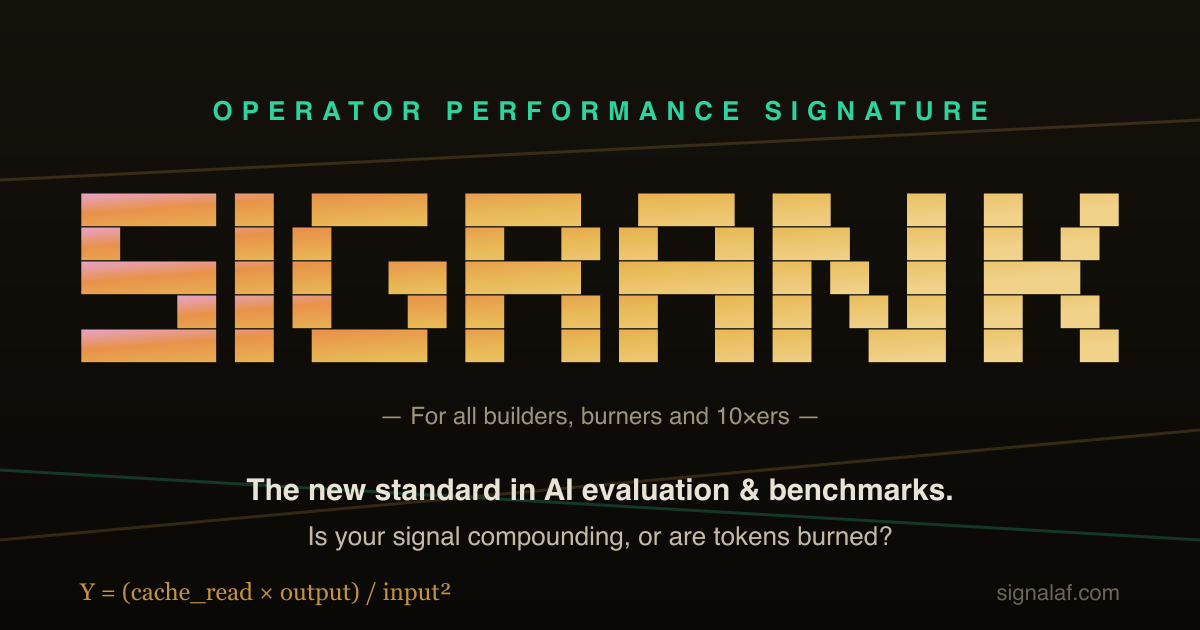
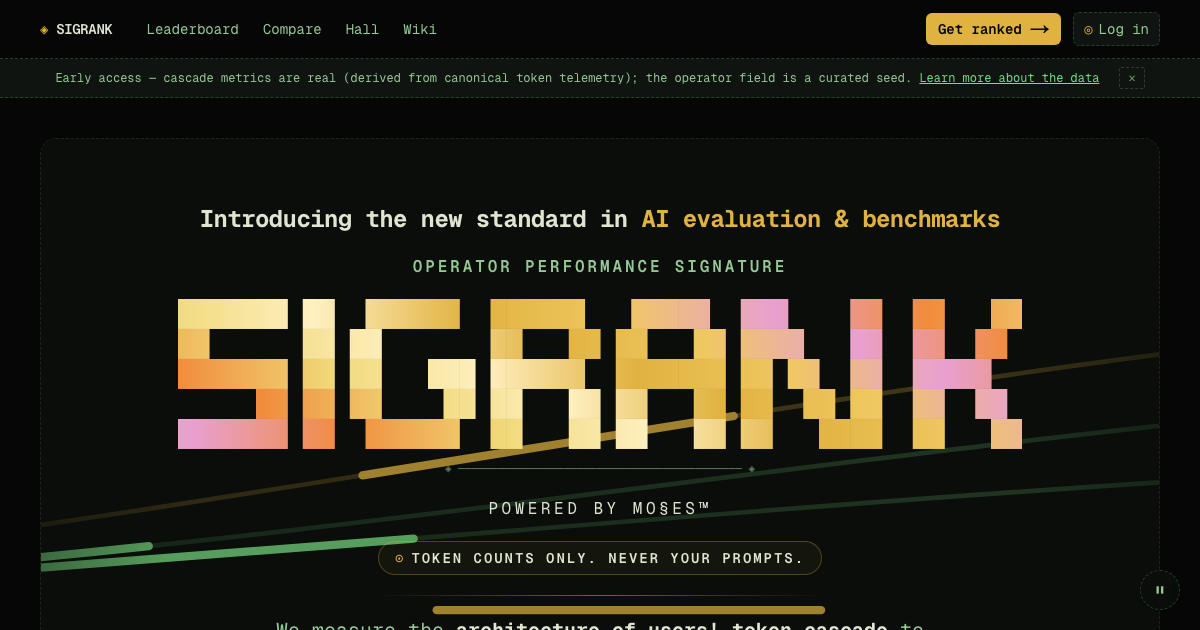
fix: refresh stale terminal mockup + screenshots to match live board
The landing page TUI mockup and GitHub README screenshots were from
late June — the board data has changed significantly since then.

TuiBoardMockup (landing page terminal demo):
- Updated all 6 rows to match live 30d board (2026-07-06):
  #1 signal-92b4f9f485 (BASE, Υ 566.34) — was TransVaultOrigin (Υ 18,436.98)
  #2 OrcaVanguard (TRANSMITTER, Υ 2.59) — was Υ 12,104.41
  #3 IronLattice (TRANSMITTER, Υ 2.30) — was ARCHITECT, Υ 8,902.17
  #4 EmberCoil (POWER, Υ 1.82) — was MeridianScribe (ARCHITECT)
  #5 DriftPilgrim (BASE, Υ 1.77) — was VectorHerald (POWER)
  #6 MeridianScribe (ARCH+, Υ 1.51) — was DriftPilgrim (POWER)
- Title bar: "sigrank-mcp — Board" → "⊙ SigRank — Board" (matches actual TUI)
- Caption: removed stale 33× discrepancy explanation, now points to live board
- Removed canonical anchor comment (no longer needed — mockup matches live)

Screenshots (.github/assets/):
- board.png: fresh capture of signalaf.com/board/30d
- profile.png: fresh capture of signalaf.com/user/signal-92b4f9f485
- og-card-v2.png: fresh capture of signalaf.com homepage

Generated with [Devin](https://devin.ai)

diff --git a/components/marketing/TuiBoardMockup.tsx b/components/marketing/TuiBoardMockup.tsx
@@ -4,17 +4,9 @@ import React from 'react'
  * TuiBoardMockup — a CSS replica of the sigrank-mcp TUI Board tab.
  *
  * Used on the landing HowItWorks section as the "screenshot" alongside the
- * install/submit commands. Static data (realistic — mirrors the live 30d
- * board). When `highlightYou` is true, the #1 row gets a gold bg-tint + YOU
- * marker (the "after you submit" view).
- *
- * The #1 Υ (18,436.98) is the CANONICAL ANCHOR — the owner's verified ccusage
- * ceiling (the most-favorable raw read). It is intentionally NOT the live
- * board's observer-stripped top (~552.53, shown in the Three Degrees gold
- * column): the mock illustrates the TUI at the canonical anchor, the chart
- * tracks the live observer-stripped field. The caption below the rows makes
- * that distinction visible so a visitor doesn't read the two surfaces as a 33×
- * discrepancy (review 2026-07-02).
+ * install/submit commands. Static data mirrors the live 30d board (refreshed
+ * 2026-07-06). When `highlightYou` is true, the #1 row gets a gold bg-tint +
+ * YOU marker (the "after you submit" view).
  */
 
 interface Row {
@@ -32,12 +24,12 @@ interface Row {
 }
 
 const ROWS: Row[] = [
-  { rank: 1, name: 'TransVaultOrigin', cls: 'TRANSMITTER', yld: '18,436.98', snr: '90.2', lev: '4.27×', vel: '1.63', d10: '0.63', pct: '100%', mv: '▲', you: true },
-  { rank: 2, name: 'OrcaVanguard',     cls: 'TRANSMITTER', yld: '12,104.41', snr: '84.1', lev: '3.82×', vel: '1.41', d10: '0.58', pct: '99%',  mv: '▲' },
-  { rank: 3, name: 'IronLattice',      cls: 'ARCHITECT',   yld:  '8,902.17', snr: '78.5', lev: '3.10×', vel: '1.29', d10: '0.49', pct: '98%',  mv: '—' },
-  { rank: 4, name: 'MeridianScribe',   cls: 'ARCHITECT',   yld:  '6,418.80', snr: '71.3', lev: '2.64×', vel: '1.12', d10: '0.42', pct: '95%',  mv: '▼' },
-  { rank: 5, name: 'VectorHerald',     cls: 'POWER',       yld:  '4,771.02', snr: '65.8', lev: '2.21×', vel: '0.98', d10: '0.34', pct: '91%',  mv: '▲' },
-  { rank: 6, name: 'DriftPilgrim',     cls: 'POWER',       yld:  '3,209.44', snr: '58.2', lev: '1.87×', vel: '0.84', d10: '0.27', pct: '85%',  mv: '—' },
+  { rank: 1, name: 'signal-92b4f9f485', cls: 'BASE',        yld: '566.34', snr: '0.59', lev: '385.7×', vel: '1.47', d10: '2.59', pct: '100%', mv: '—', you: true },
+  { rank: 2, name: 'OrcaVanguard',      cls: 'TRANSMITTER', yld: '2.59',   snr: '0.08', lev: '27.9×',  vel: '0.09', d10: '1.45', pct: '99%',  mv: '—' },
+  { rank: 3, name: 'IronLattice',       cls: 'TRANSMITTER', yld: '2.30',   snr: '0.07', lev: '30.1×',  vel: '0.08', d10: '1.48', pct: '98%',  mv: '—' },
+  { rank: 4, name: 'EmberCoil',         cls: 'POWER',       yld: '1.82',   snr: '0.08', lev: '22.3×',  vel: '0.08', d10: '1.35', pct: '91%',  mv: '—' },
+  { rank: 5, name: 'DriftPilgrim',      cls: 'BASE',        yld: '1.77',   snr: '0.05', lev: '31.5×',  vel: '0.06', d10: '1.50', pct: '85%',  mv: '—' },
+  { rank: 6, name: 'MeridianScribe',    cls: 'ARCH+',       yld: '1.51',   snr: '0.06', lev: '22.3×',  vel: '0.07', d10: '1.35', pct: '75%',  mv: '—' },
 ]
 
 export function TuiBoardMockup({ highlightYou = false }: { highlightYou?: boolean }) {
@@ -56,7 +48,7 @@ export function TuiBoardMockup({ highlightYou = false }: { highlightYou?: boolea
         <span className="h-2.5 w-2.5 rounded-full bg-red-500/70" />
         <span className="h-2.5 w-2.5 rounded-full bg-yellow-500/70" />
         <span className="h-2.5 w-2.5 rounded-full bg-green-500/70" />
-        <span className="ml-2 font-mono text-[11px] text-text-dim">sigrank-mcp — Board</span>
+        <span className="ml-2 font-mono text-[11px] text-text-dim">⊙ SigRank — Board</span>
       </div>
       {/* tab bar */}
       <div className="flex gap-4 overflow-x-auto border-b border-bg-border-subtle px-4 py-2 font-mono text-[11px] whitespace-nowrap">
@@ -115,13 +107,8 @@ export function TuiBoardMockup({ highlightYou = false }: { highlightYou?: boolea
           )
         })}
       </div>
-      {/* Reconciling caption (review 2026-07-02): the mock renders the canonical
-          anchor read (the verified ccusage ceiling), NOT the observer-stripped
-          live board shown in the Three Degrees gold column — so the two surfaces
-          don't read as a 33× discrepancy. */}
       <div className="border-t border-bg-border-subtle px-4 py-2 font-mono text-[10px] leading-snug text-text-dim">
-        Illustrative — canonical anchor read (ccusage ceiling). Live board shows
-        observer-stripped yields.
+        Illustrative — mirrors the live 30d board. See signalaf.com/board/30d for real-time data.
       </div>
     </div>
   )